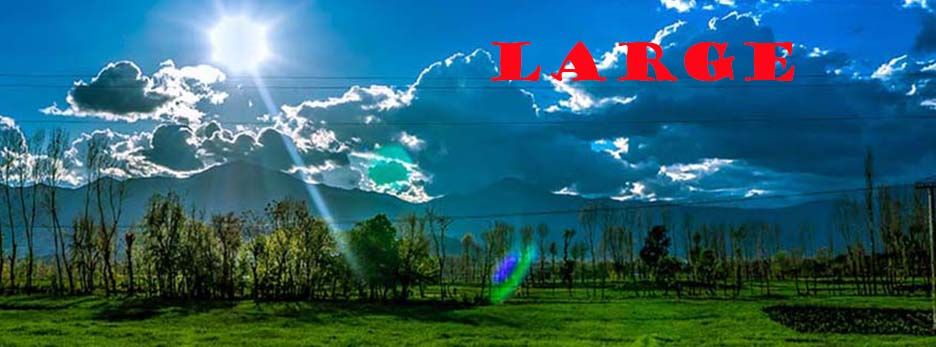
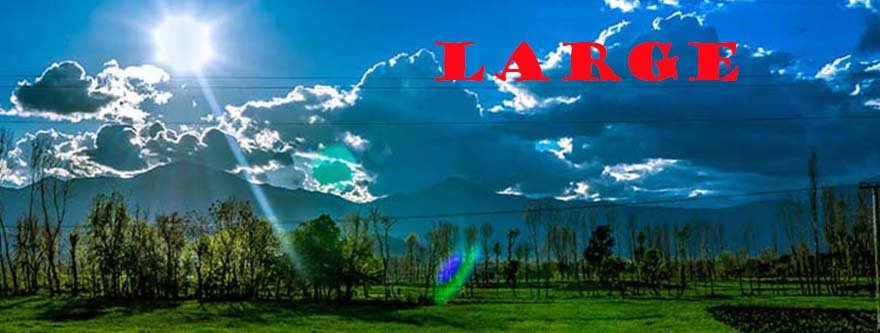
update

diff --git a/lesson6/preston.html b/lesson6/preston.html
@@ -51,7 +51,7 @@
         <div class="herodiv">
           <picture class="myphotoA">
               <source media="(max-width: 200px)" srcset="images/hero200small.jpg">
-              <source media="(max-width: 500px)" srcset="images/hero400small.jpg">
+              <source media="(max-width: 400px)" srcset="images/hero400small.jpg">
               <source media="(max-width: 800px)" srcset="images/hero800medium.jpg">
               <img src="images/hero1100.jpg" alt="hero">
               
